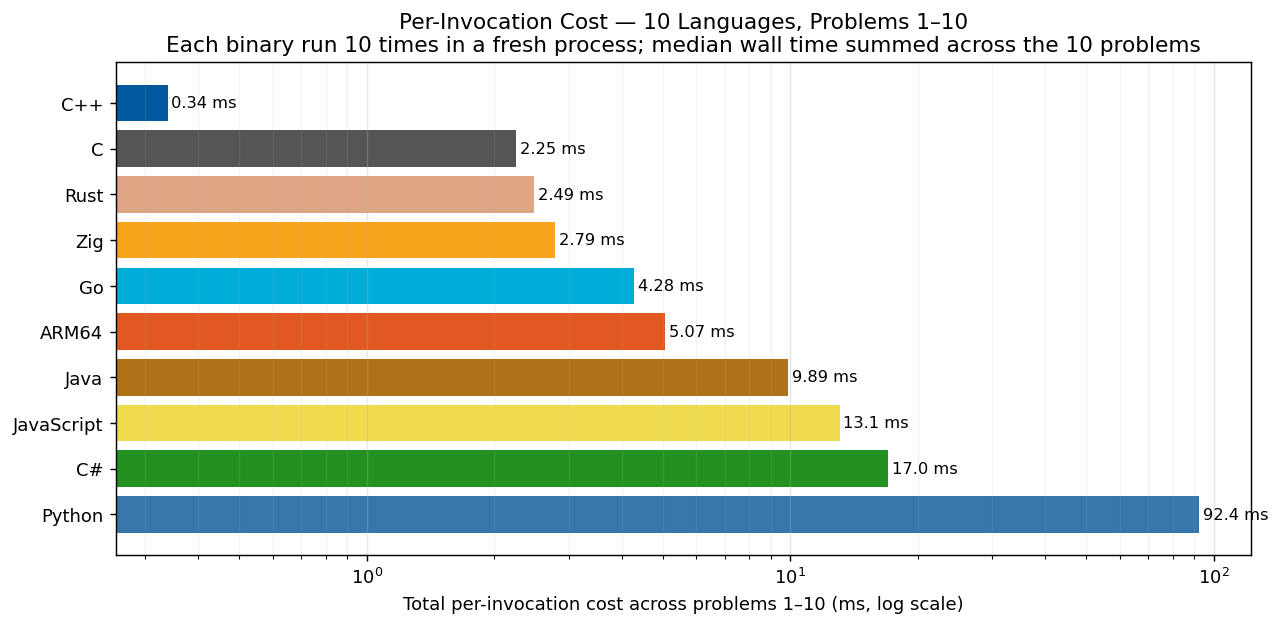
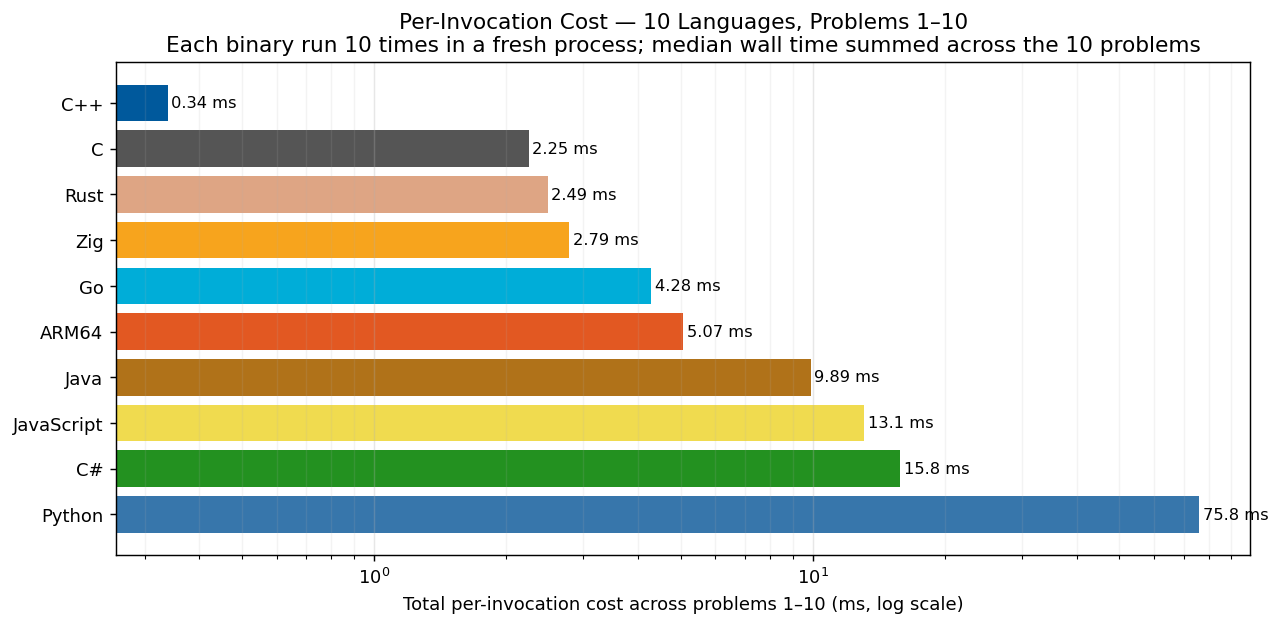
bench refresh: Rust p001 + Python p002/p005/p006/p010 + C# p003 idiom cleanups

diff --git a/RESULTS.md b/RESULTS.md
@@ -25,8 +25,8 @@ the headline per-problem number, and we sum across the 10 problems for the total
 | 6 | **ARM64** | 5.07 ms | 14.96× |
 | 7 | **Java** | 9.89 ms | 29.21× |
 | 8 | **JavaScript** | 13.07 ms | 38.60× |
-| 9 | **C#** | 17.05 ms | 50.34× |
-| 10 | **Python** | 92.43 ms | 272.94× |
+| 9 | **C#** | 15.83 ms | 46.75× |
+| 10 | **Python** | 75.82 ms | 223.87× |
 
 ## Per-Problem Detail
 
@@ -37,14 +37,14 @@ are sorted by total (fastest language at top).
 |----------|----:|----:|----:|----:|----:|----:|----:|----:|----:|----:|
 | **C++** | 84 ns | 84 ns | 27.1 µs | 25.0 µs | 333 ns | 83 ns | 21.6 µs | 3.1 µs | 333 ns | 261.0 µs |
 | **C** | 41 ns | 42 ns | 750 ns | 3.5 µs | 375 ns | 41 ns | 170.7 µs | 1.2 µs | 250 ns | 2.07 ms |
-| **Rust** | 1.2 µs | 83 ns | 28.1 µs | 13.9 µs | 417 ns | 42 ns | 381.2 µs | 9.7 µs | 250 ns | 2.05 ms |
+| **Rust** | 42 ns | 83 ns | 28.0 µs | 13.6 µs | 417 ns | 41 ns | 385.6 µs | 10.7 µs | 250 ns | 2.05 ms |
 | **Zig** | 42 ns | 83 ns | 833 ns | 3.9 µs | 625 ns | 83 ns | 524.5 µs | 1.8 µs | 292 ns | 2.25 ms |
 | **Go** | 2.0 µs | 1.7 µs | 2.3 µs | 4.9 µs | 2.2 µs | 1.4 µs | 348.3 µs | 5.1 µs | 2.0 µs | 3.91 ms |
 | **ARM64** | 2.0 µs | 0 ns | 1.0 µs | 2.0 µs | 1.0 µs | 0 ns | 289.0 µs | 3.0 µs | 1.0 µs | 4.77 ms |
 | **Java** | 3.2 µs | 3.5 µs | 8.2 µs | 295.8 µs | 4.7 µs | 2.4 µs | 1.57 ms | 59.5 µs | 6.6 µs | 7.93 ms |
 | **JavaScript** | 16.3 µs | 11.7 µs | 54.8 µs | 91.3 µs | 28.8 µs | 6.8 µs | 2.65 ms | 95.7 µs | 27.7 µs | 10.09 ms |
-| **C#** | 252.3 µs | 239.8 µs | 1.89 ms | 316.9 µs | 2.06 ms | 207.5 µs | 923.3 µs | 339.2 µs | 691.4 µs | 10.13 ms |
-| **Python** | 1.7 µs | 2.8 µs | 7.69 ms | 55.45 ms | 28.1 µs | 5.7 µs | 1.39 ms | 863.3 µs | 4.67 ms | 22.33 ms |
+| **C#** | 247.8 µs | 246.5 µs | 306.4 µs | 314.8 µs | 2.06 ms | 222.0 µs | 1.08 ms | 415.0 µs | 769.0 µs | 10.18 ms |
+| **Python** | 1.4 µs | 2.0 µs | 7.67 ms | 55.93 ms | 5.1 µs | 1.2 µs | 1.38 ms | 864.8 µs | 4.66 ms | 5.30 ms |
 
 ## Method
 
